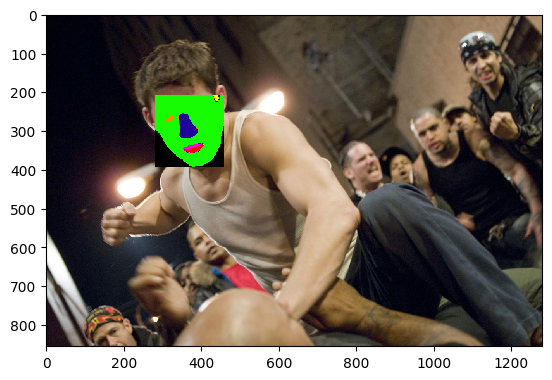
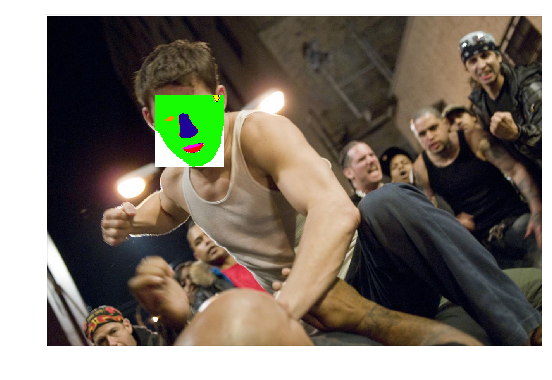
images

diff --git a/README.md b/README.md
@@ -24,8 +24,12 @@
 ![img](report/table.png)
 
 # In the wild segments
+In-the-wild face parses are then repositioned in the correct position. Demonstrating
+segmentation ability in crowded/ challenging environments.
 
+![img](report/3.png)
 ![img](report/replace.png)
+![img](report/replace2.png)
 
 ## License
 
